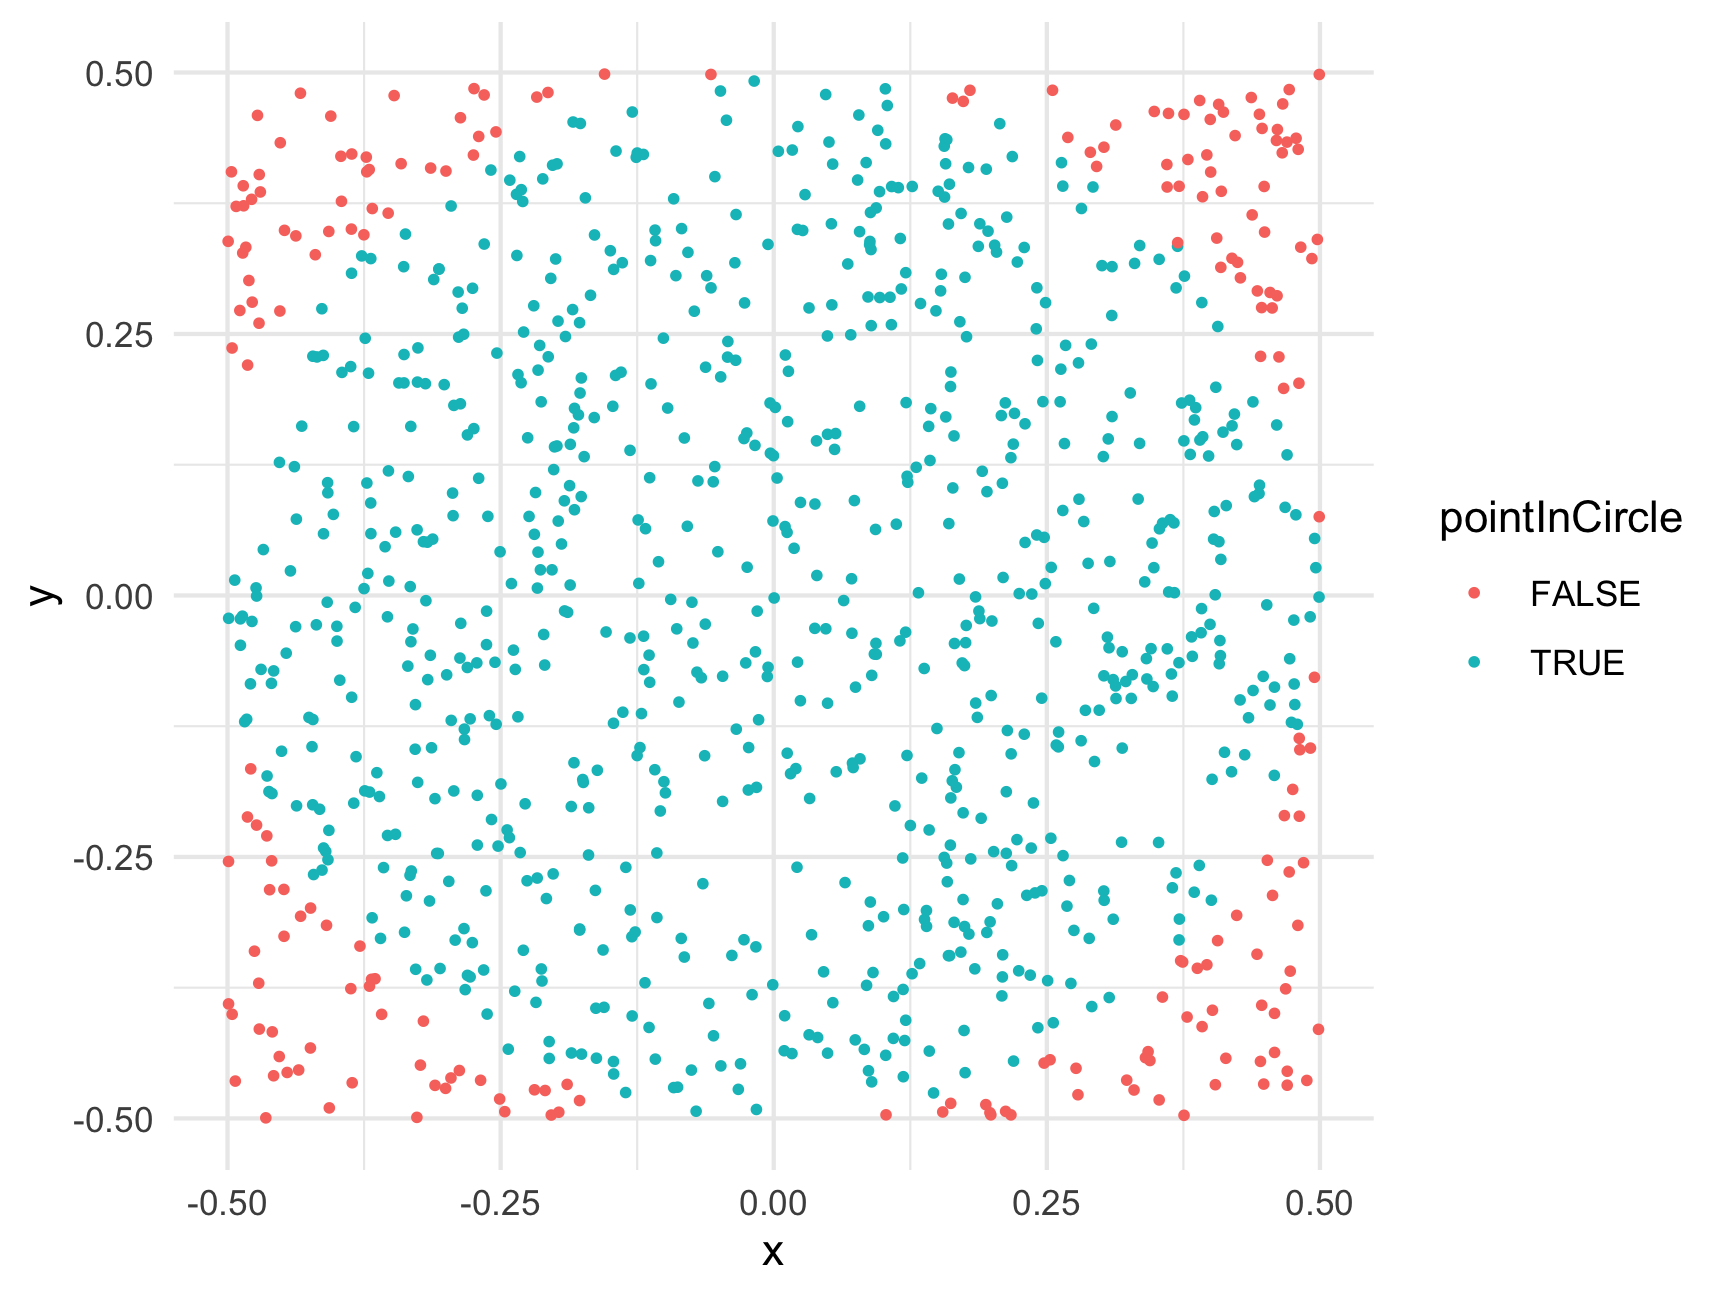
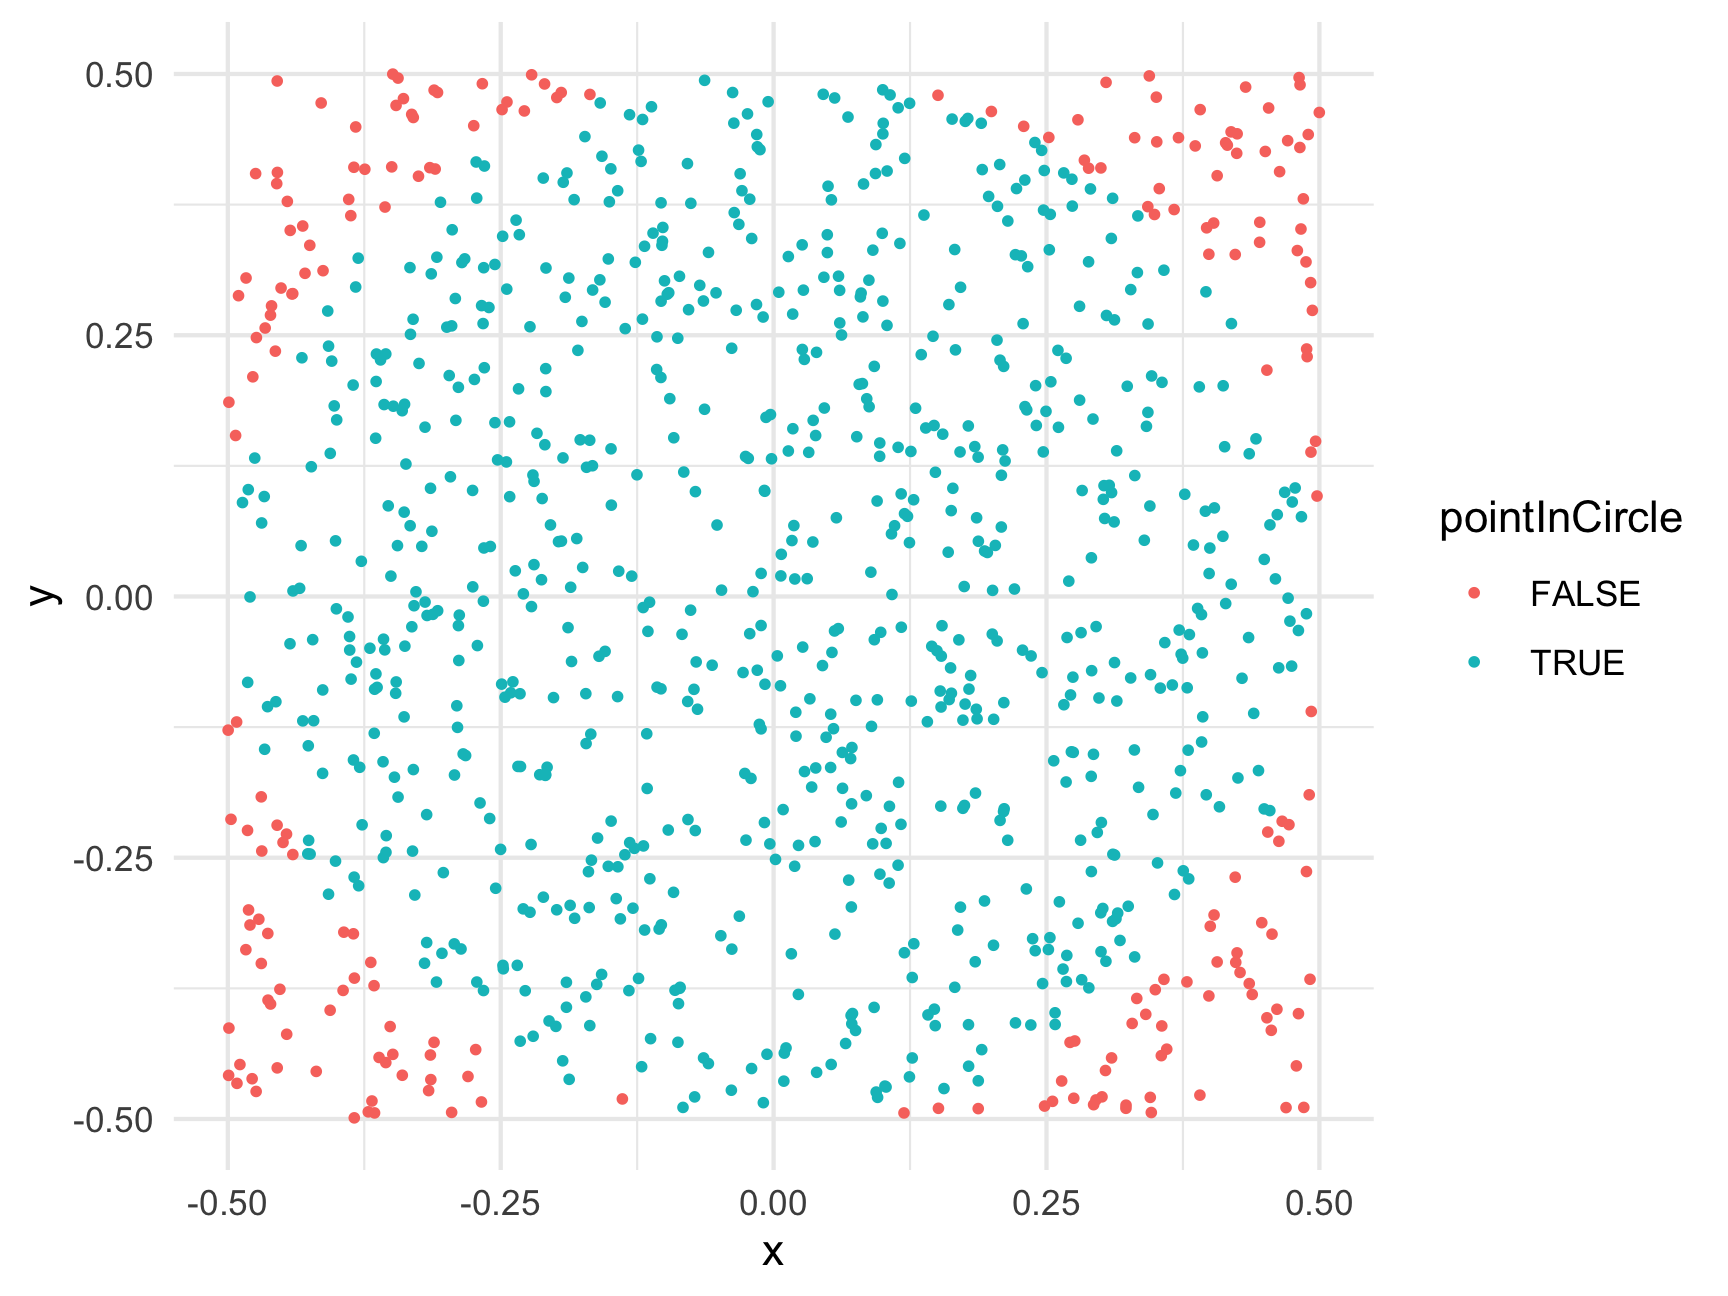
Deploying to gh-pages from  @ ee809ae7c58cabed77fcec651821af7e651d4dfb 🚀

diff --git a/class/1-getting-started/index.html b/class/1-getting-started/index.html
@@ -84,7 +84,7 @@ class: inverse, middle
 
 # Week 1: .fancy[Getting Started]
 
-### 1. Course orientation
+### 1. .orange[Course orientation]
 
 ### BREAK
 
@@ -356,7 +356,7 @@ class: inverse, center
 
 ## <svg aria-hidden="true" role="img" viewBox="0 0 576 512" style="height:1em;width:1.12em;vertical-align:-0.125em;margin-left:auto;margin-right:auto;font-size:inherit;fill:currentColor;overflow:visible;position:relative;"><path d="M576 304v96c0 26.51-21.49 48-48 48H48c-26.51 0-48-21.49-48-48v-96c0-26.51 21.49-48 48-48h480c26.51 0 48 21.49 48 48zm-48-80a79.557 79.557 0 0 1 30.777 6.165L462.25 85.374A48.003 48.003 0 0 0 422.311 64H153.689a48 48 0 0 0-39.938 21.374L17.223 230.165A79.557 79.557 0 0 1 48 224h480zm-48 96c-17.673 0-32 14.327-32 32s14.327 32 32 32 32-14.327 32-32-14.327-32-32-32zm-96 0c-17.673 0-32 14.327-32 32s14.327 32 32 32 32-14.327 32-32-14.327-32-32-32z"/></svg> Install [course software](https://p4a.seas.gwu.edu/2022-Spring/ref-course-software.html) if you haven't
 
-<div class="countdown" id="timer_61ddd248" style="top:1;right:0;bottom:0;left:0;margin:5%;font-size:8em;" data-warnwhen="30">
+<div class="countdown" id="timer_61deb81c" style="top:1;right:0;bottom:0;left:0;margin:5%;font-size:8em;" data-warnwhen="30">
 <code class="countdown-time"><span class="countdown-digits minutes">05</span><span class="countdown-digits colon">:</span><span class="countdown-digits seconds">00</span></code>
 </div>
 
@@ -372,9 +372,77 @@ class: inverse, middle
 
 ### BREAK
 
-### 2. Getting started with R &amp; RStudio
+### 2. .orange[Getting started with R &amp; RStudio]
 ### 3. Operators &amp; data types
 ### 4. Preview of HW 1
+
+---
+
+class: center 
+
+## What is <svg aria-hidden="true" role="img" viewBox="0 0 581 512" style="height:1em;width:1.13em;vertical-align:-0.125em;margin-left:auto;margin-right:auto;font-size:inherit;fill:currentColor;overflow:visible;position:relative;"><path d="M581 226.6C581 119.1 450.9 32 290.5 32S0 119.1 0 226.6C0 322.4 103.3 402 239.4 418.1V480h99.1v-61.5c24.3-2.7 47.6-7.4 69.4-13.9L448 480h112l-67.4-113.7c54.5-35.4 88.4-84.9 88.4-139.7zm-466.8 14.5c0-73.5 98.9-133 220.8-133s211.9 40.7 211.9 133c0 50.1-26.5 85-70.3 106.4-2.4-1.6-4.7-2.9-6.4-3.7-10.2-5.2-27.8-10.5-27.8-10.5s86.6-6.4 86.6-92.7-90.6-87.9-90.6-87.9h-199V361c-74.1-21.5-125.2-67.1-125.2-119.9zm225.1 38.3v-55.6c57.8 0 87.8-6.8 87.8 27.3 0 36.5-38.2 28.3-87.8 28.3zm-.9 72.5H365c10.8 0 18.9 11.7 24 19.2-16.1 1.9-33 2.8-50.6 2.9v-22.1z"/></svg>? ([Read a brief history here](https://bookdown.org/rdpeng/rprogdatascience/history-and-overview-of-r.html))
+
+Chambers creates "S" (1976, Bell Labs)&lt;br&gt;
+Ross &amp; Robert create "R" (1991, U. of Auckland)
+
+.cols3[
+## .center[[John Chambers](https://en.wikipedia.org/wiki/John_Chambers_(statistician)]
+&lt;center&gt;
+&lt;img src="https://datascience.stanford.edu/sites/g/files/sbiybj18491/f/styles/large-square/public/john-chambers.png?itok=o9PvzKwG" width=280&gt;
+&lt;/center&gt;
+]
+
+.cols3[
+## .center[[Ross Ihaka](https://en.wikipedia.org/wiki/Ross_Ihaka)]
+&lt;center&gt;
+&lt;img src="https://upload.wikimedia.org/wikipedia/commons/thumb/f/f0/Ross_Ihaka_%285189180796%29.jpg/1280px-Ross_Ihaka_%285189180796%29.jpg" width=100%&gt;
+&lt;/center&gt;
+]
+
+.cols3[
+## .center[[Robert Gentleman](https://en.wikipedia.org/wiki/Robert_Gentleman_(statistician)]
+&lt;center&gt;
+&lt;img src="https://upload.wikimedia.org/wikipedia/commons/c/c6/Rober_Gentleman.png" width=250&gt;
+&lt;/center&gt;
+]
+
+---
+
+class: center, middle 
+
+.leftcol[
+## <svg aria-hidden="true" role="img" viewBox="0 0 581 512" style="height:1em;width:1.13em;vertical-align:-0.125em;margin-left:auto;margin-right:auto;font-size:inherit;fill:currentColor;overflow:visible;position:relative;"><path d="M581 226.6C581 119.1 450.9 32 290.5 32S0 119.1 0 226.6C0 322.4 103.3 402 239.4 418.1V480h99.1v-61.5c24.3-2.7 47.6-7.4 69.4-13.9L448 480h112l-67.4-113.7c54.5-35.4 88.4-84.9 88.4-139.7zm-466.8 14.5c0-73.5 98.9-133 220.8-133s211.9 40.7 211.9 133c0 50.1-26.5 85-70.3 106.4-2.4-1.6-4.7-2.9-6.4-3.7-10.2-5.2-27.8-10.5-27.8-10.5s86.6-6.4 86.6-92.7-90.6-87.9-90.6-87.9h-199V361c-74.1-21.5-125.2-67.1-125.2-119.9zm225.1 38.3v-55.6c57.8 0 87.8-6.8 87.8 27.3 0 36.5-38.2 28.3-87.8 28.3zm-.9 72.5H365c10.8 0 18.9 11.7 24 19.2-16.1 1.9-33 2.8-50.6 2.9v-22.1z"/></svg>
+&lt;center&gt;
+&lt;img src="images/engine.jpg" width=500&gt;
+&lt;/center&gt;
+]
+
+.rightcol[
+## <svg aria-hidden="true" role="img" viewBox="0 0 581 512" style="height:1em;width:1.13em;vertical-align:-0.125em;margin-left:auto;margin-right:auto;font-size:inherit;fill:currentColor;overflow:visible;position:relative;"><path d="M581 226.6C581 119.1 450.9 32 290.5 32S0 119.1 0 226.6C0 322.4 103.3 402 239.4 418.1V480h99.1v-61.5c24.3-2.7 47.6-7.4 69.4-13.9L448 480h112l-67.4-113.7c54.5-35.4 88.4-84.9 88.4-139.7zm-466.8 14.5c0-73.5 98.9-133 220.8-133s211.9 40.7 211.9 133c0 50.1-26.5 85-70.3 106.4-2.4-1.6-4.7-2.9-6.4-3.7-10.2-5.2-27.8-10.5-27.8-10.5s86.6-6.4 86.6-92.7-90.6-87.9-90.6-87.9h-199V361c-74.1-21.5-125.2-67.1-125.2-119.9zm225.1 38.3v-55.6c57.8 0 87.8-6.8 87.8 27.3 0 36.5-38.2 28.3-87.8 28.3zm-.9 72.5H365c10.8 0 18.9 11.7 24 19.2-16.1 1.9-33 2.8-50.6 2.9v-22.1z"/></svg>Studio
+&lt;center&gt;
+&lt;img src="images/dashboard.jpg" width=600&gt;
+&lt;/center&gt;
+]
+
+---
+
+class: center 
+
+# RStudio Orientation
+
+.leftcol[
+## Open this
+&lt;center&gt;
+&lt;img src="images/rstudio_ball.png" width=300&gt;
+&lt;/center&gt;
+]
+
+.rightcol[
+## Not this
+&lt;center&gt;
+&lt;img src="images/Rlogo.png" width=400&gt;
+&lt;/center&gt;
+]
 
 ---
 
@@ -764,8 +832,7 @@ objects()
 ```
 
 ```
-#&gt;  [1] "class"          "days_in_week"   "input"          "monthsInYear"   "number"         "numbeR"         "Number"         "output_file"    "path_notes"     "path_pdf"       "path_slides"    "proc"           "rmd_args"       "root"          
-#&gt; [15] "self_contained" "speed"          "speed_mph"      "x"              "y"              "z"
+#&gt;  [1] "class"        "days_in_week" "monthsInYear" "number"       "numbeR"       "Number"       "path_notes"   "path_pdf"     "path_slides"  "root"         "speed"        "speed_mph"    "w"            "x"            "y"            "z"
 ```
 ]
 
@@ -780,8 +847,7 @@ objects()
 ```
 
 ```
-#&gt;  [1] "class"          "days_in_week"   "input"          "monthsInYear"   "numbeR"         "Number"         "output_file"    "path_notes"     "path_pdf"       "path_slides"    "proc"           "rmd_args"       "root"           "self_contained"
-#&gt; [15] "speed"          "speed_mph"      "x"              "y"              "z"
+#&gt;  [1] "class"        "days_in_week" "monthsInYear" "numbeR"       "Number"       "path_notes"   "path_pdf"     "path_slides"  "root"         "speed"        "speed_mph"    "w"            "x"            "y"            "z"
 ```
 ]
 
@@ -815,7 +881,7 @@ objects()
 
 class: inverse
 
-<div class="countdown blink-colon noupdate-15" id="timer_61ddd485" style="bottom:0;left:0;font-size:2em;" data-warnwhen="30">
+<div class="countdown blink-colon noupdate-15" id="timer_61deba35" style="bottom:0;left:0;font-size:2em;" data-warnwhen="30">
 <code class="countdown-time"><span class="countdown-digits minutes">10</span><span class="countdown-digits colon">:</span><span class="countdown-digits seconds">00</span></code>
 </div>
 
@@ -861,7 +927,7 @@ class: inverse, middle
 ### BREAK
 
 ### 2. Getting started with R &amp; RStudio
-### 3. Operators &amp; data types
+### 3. .orange[Operators &amp; data types]
 ### 4. Preview of HW 1
 
 ---
@@ -1455,7 +1521,7 @@ The `&amp;` operator takes precedence over `|`
 
 class: inverse
 
-<div class="countdown blink-colon noupdate-15" id="timer_61ddd3e2" style="top:0;right:0;font-size:2em;" data-warnwhen="30">
+<div class="countdown blink-colon noupdate-15" id="timer_61deb701" style="top:0;right:0;font-size:2em;" data-warnwhen="30">
 <code class="countdown-time"><span class="countdown-digits minutes">10</span><span class="countdown-digits colon">:</span><span class="countdown-digits seconds">00</span></code>
 </div>
 
@@ -1706,7 +1772,7 @@ class: inverse
 
 # Your turn
 
-<div class="countdown blink-colon noupdate-15" id="timer_61ddd5ff" style="top:0;right:0;font-size:2em;" data-warnwhen="30">
+<div class="countdown blink-colon noupdate-15" id="timer_61deb8be" style="top:0;right:0;font-size:2em;" data-warnwhen="30">
 <code class="countdown-time"><span class="countdown-digits minutes">05</span><span class="countdown-digits colon">:</span><span class="countdown-digits seconds">00</span></code>
 </div>
 
@@ -1732,7 +1798,7 @@ class: inverse, middle
 
 ### 2. Getting started with R &amp; RStudio
 ### 3. Operators &amp; data types
-### 4. Preview of HW 1
+### 4. .orange[Preview of HW 1]
 
 ---
 

diff --git a/r13-monte-carlo-methods.html b/r13-monte-carlo-methods.html
@@ -805,11 +805,11 @@ ratio &lt;- sum(belowCurve) / numTrials
 totalArea &lt;- (7 - 3) * 7^2 # Rectangle length x height = 196
 areaUnderCurve &lt;- ratio * totalArea
 areaUnderCurve</code></pre>
-<pre><code>#&gt; [1] 105.056</code></pre>
-<p>So, using Monte Carlo simulation with 100,000 points, we estimate that the area under the curve is 105.056. How’d we do? Well, if you’re familiar with calculus, the integral of <span class="math inline">\(f(x) = x^2\)</span> has a closed-form solution (<span class="math inline">\(\frac{x^3}{3} + C\)</span>), so we can check our estimate against the pure-math solution:</p>
+<pre><code>#&gt; [1] 105.3265</code></pre>
+<p>So, using Monte Carlo simulation with 100,000 points, we estimate that the area under the curve is 105.32648. How’d we do? Well, if you’re familiar with calculus, the integral of <span class="math inline">\(f(x) = x^2\)</span> has a closed-form solution (<span class="math inline">\(\frac{x^3}{3} + C\)</span>), so we can check our estimate against the pure-math solution:</p>
 <p><span class="math display">\[\int_{3}^{7} x^2 \mathrm{dx} = \left ( \frac{x^3}{3} \right ) \Big|_3^7 = \frac{7^3}{3} - \frac{3^3}{3} = 105.33\bar{3}\]</span></p>
-<p>So our estimate error is: <code>105.333 -</code> <code>105.056</code> <code>=</code> <code>0.2773333</code>.</p>
-<p>That’s an error of just 0.26 % - not bad!</p>
+<p>So our estimate error is: <code>105.333 -</code> <code>105.32648</code> <code>=</code> <code>0.0068533</code>.</p>
+<p>That’s an error of just 0.01 % - not bad!</p>
 <hr />
 </div>
 <div id="monte-carlo-pi" class="section level1">
@@ -839,13 +839,13 @@ points &lt;- data.frame(
     x = runif(numTrials, -0.5, 0.5),
     y = runif(numTrials, -0.5, 0.5))
 head(points)</code></pre>
-<pre><code>#&gt;             x          y
-#&gt; 1  0.38625645  0.1795592
-#&gt; 2  0.09522822  0.4447661
-#&gt; 3  0.40424614 -0.4677716
-#&gt; 4  0.15682012  0.4366241
-#&gt; 5 -0.18686536  0.1049830
-#&gt; 6  0.14630712 -0.4756555</code></pre>
+<pre><code>#&gt;              x           y
+#&gt; 1 -0.356831966  0.18364876
+#&gt; 2  0.212076900  0.12968340
+#&gt; 3  0.107979277  0.05994299
+#&gt; 4  0.004749956  0.29117238
+#&gt; 5 -0.063266442  0.17915774
+#&gt; 6 -0.148854668 -0.21495650</code></pre>
 <p>For this example, we’re putting the points in a data frame to make it easier to work with. Now that we have random x and y points, let’s compute the radius to each point (the distance from <code>(x, y) = (0, 0)</code>) so we can determine which points fall inside the circle (which has a radius of 0.5):</p>
 <pre class="r"><code>library(dplyr)
 points &lt;- points %&gt;%
@@ -862,9 +862,9 @@ ggplot(points) +
 <pre class="r"><code>ratio &lt;- sum(points$pointInCircle) / nrow(points)
 piApprox &lt;- 4 * ratio
 piApprox</code></pre>
-<pre><code>#&gt; [1] 3.152</code></pre>
-<p>So our estimate error is: <code>3.1415 -</code> <code>3.152</code> <code>=</code> <code>0.0104073</code>.</p>
-<p>That’s an error of just 0.33 % - not bad for only 1,000 points!</p>
+<pre><code>#&gt; [1] 3.144</code></pre>
+<p>So our estimate error is: <code>3.1415 -</code> <code>3.144</code> <code>=</code> <code>0.0024073</code>.</p>
+<p>That’s an error of just 0.08 % - not bad for only 1,000 points!</p>
 <p>To get an even better estimate of <span class="math inline">\(\pi\)</span>, we can increase N. Let’s see what we get with 100,000 trials:</p>
 <pre class="r"><code>numTrials &lt;- 100000
 points &lt;- data.frame(
@@ -876,13 +876,13 @@ points &lt;- data.frame(
 ratio &lt;- sum(points$pointInCircle) / nrow(points)
 piApprox &lt;- 4 * ratio
 piApprox</code></pre>
-<pre><code>#&gt; [1] 3.13152</code></pre>
+<pre><code>#&gt; [1] 3.13968</code></pre>
 <pre class="r"><code># Compute error:
 error &lt;- piApprox - pi
 percentError &lt;- round(100*abs(error / pi), 2)
 percentError</code></pre>
-<pre><code>#&gt; [1] 0.32</code></pre>
-<p>By increasing the number of trials from 1,000 to 100,000, we improved our estimate error from 0.33 % to 0.32 %!</p>
+<pre><code>#&gt; [1] 0.06</code></pre>
+<p>By increasing the number of trials from 1,000 to 100,000, we improved our estimate error from 0.08 % to 0.06 %!</p>
 <hr />
 <p><strong>Page sources</strong>:</p>
 <p>Some content on this page has been modified from other courses, including:</p>

diff --git a/r2-functions-packages.html b/r2-functions-packages.html
@@ -763,7 +763,7 @@ div.tocify {
 <p>Here the letters <code>sqrt</code> are short for “square root,” and the value inside the <code>()</code> is the “argument” to the function. In the example above, the value <code>225</code> is the “argument”.</p>
 <p>Keep in mind that not all functions have (or require) arguments:</p>
 <pre class="r"><code>date() # Returns the current date and time</code></pre>
-<pre><code>#&gt; [1] &quot;Tue Jan 11 22:19:59 2022&quot;</code></pre>
+<pre><code>#&gt; [1] &quot;Wed Jan 12 11:49:33 2022&quot;</code></pre>
 <p>(the date above is the date this page was last built)</p>
 <div id="multiple-arguments" class="section level2">
 <h2>Multiple arguments</h2>
@@ -981,9 +981,9 @@ library(packagename)   # This also works</code></pre>
 <p>Now that you have the package installed on your computer, try loading it using <code>library(wikifacts)</code>, then trying using some of it’s functions:</p>
 <pre class="r"><code>library(wikifacts) # Load the library</code></pre>
 <pre class="r"><code>wiki_randomfact()</code></pre>
-<pre><code>#&gt; [1] &quot;Here&#39;s some news from 14 July 2019. Iran announces an increase in uranium enrichment beyond the limit set in the Joint Comprehensive Plan of Action. (Courtesy of Wikipedia)&quot;</code></pre>
+<pre><code>#&gt; [1] &quot;Did you know that on September 18 in 1809 – The second theatre of the Royal Opera House (interior pictured) in London opened after a fire destroyed the original theatre one year earlier. (Courtesy of Wikipedia)&quot;</code></pre>
 <pre class="r"><code>wiki_didyouknow()</code></pre>
-<pre><code>#&gt; [1] &quot;Did you know that the flowers of the bush allamanda (pictured) can appear year-round? (Courtesy of Wikipedia)&quot;</code></pre>
+<pre><code>#&gt; [1] &quot;Did you know that Kyle Holbrook has painted more than two hundred public murals in the City of Pittsburgh? (Courtesy of Wikipedia)&quot;</code></pre>
 <p>In case you’re wondering, the only thing this package does is generate messages containing random facts from <a href="https://www.wikipedia.org/">Wikipedia</a>.</p>
 </div>
 <div id="using-only-some-package-functions" class="section level2">
@@ -994,7 +994,7 @@ library(packagename)   # This also works</code></pre>
 </blockquote>
 <p>Here I use the name of the <em>package</em> followed by <code>::</code> to tell R that I’m looking for a function that is in that package. For example, if I didn’t want to load the whole <strong>wikifacts</strong> library but still wanted to use the <code>wiki_randomfact()</code> function, I could do this:</p>
 <pre class="r"><code>wikifacts::wiki_randomfact()</code></pre>
-<pre><code>#&gt; [1] &quot;Did you know that Temple Memorial Park, named after Archbishop of Canterbury William Temple, was given to the people of South Shields in recognition of their military contributions at sea in World War II? (Courtesy of Wikipedia)&quot;</code></pre>
+<pre><code>#&gt; [1] &quot;Did you know that on June 8 in 218 – With the support of the Syrian legions, Elagabalus defeated the forces of Roman emperor Macrinus. (Courtesy of Wikipedia)&quot;</code></pre>
 <p>Where this is particularly handy is when two packages have a function with the same name. If you load both library, R might not know which function to use. In those cases, it’s best to also provide the <strong>package</strong> name. For example, let’s say there was a package called <strong>apples</strong> and another called <strong>bananas</strong>, and each had a function named <code>fruitName()</code>. If I wanted to use each of them in my code, I would need to specify the package names like this:</p>
 <pre class="r"><code>apples::fruitName()
 bananas::fruitName()</code></pre>

diff --git a/syllabus.html b/syllabus.html
@@ -1032,10 +1032,10 @@ div.tocify {
 <p>Homework assignment due dates are “soft,” but the longer you wait to complete each assignment, the poorer you’ll likely do on quizzes and exams.</p>
 <p>There are two <strong>hard</strong> deadlines for submitting homework assignments:</p>
 <ul>
-<li>Oct. 20: Homeworks 1-6</li>
-<li>Dec. 8: Homeworks 7-12</li>
+<li>March 10: Homeworks 1-7</li>
+<li>May 5: Homeworks 8-12</li>
 </ul>
-<p>These deadlines are to ensure that you will be prepared for the Midterm (which covers weeks 1-6) and the Final Exam (which is cumulative).</p>
+<p>These deadlines are to ensure that you will be prepared for the Midterm (which covers weeks 1-7) and the Final Exam (which is cumulative).</p>
 </div>
 <div id="collaboration-policy" class="section level2">
 <h2><span class="header-section-number">9.3</span> Collaboration Policy</h2>
